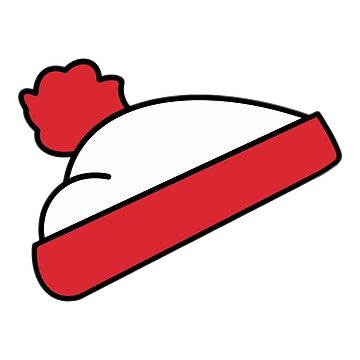
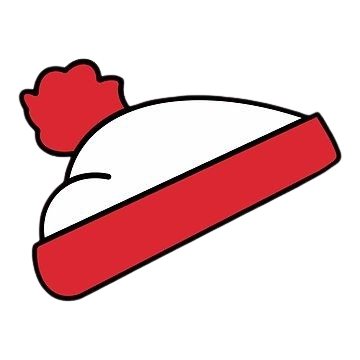
Waldo's Hat

diff --git a/index.html b/index.html
@@ -851,7 +851,16 @@ Thank you all for coming. <br> See you at MasseyHacks X!
             src="images/sponsors/bronze/stickermule.png"
             loading="lazy"
         /></a>
-
+           <a
+          class="sponsor-obj zoom"
+          href="https://maps.app.goo.gl/Wt5YqdAfVQ1XvQtNA"
+          target="_blank"
+          ><img
+            alt="Hat"
+            class="zoom"
+            src="images/sponsors/bronze/hat.png"
+            loading="lazy"
+        /></a>
           <a
           class="sponsor-obj zoom"
           href="https://www.leadingaces.com/"
